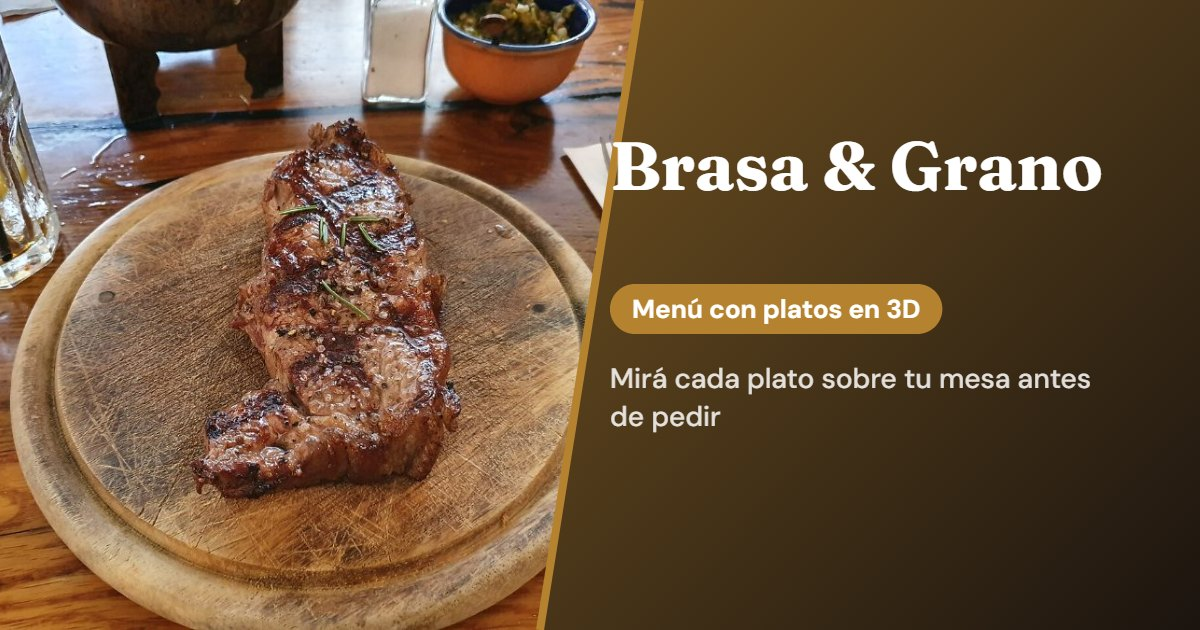
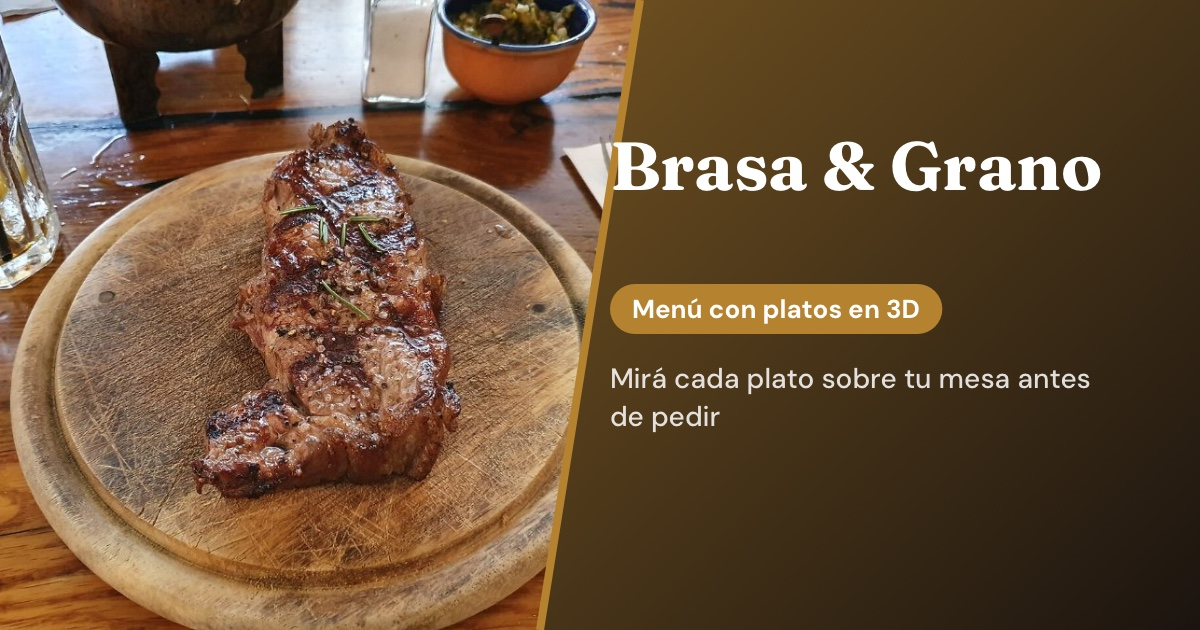
Actualiza el menú de Brasa & Grano

diff --git a/brasa-y-grano/index.html b/brasa-y-grano/index.html
@@ -3,14 +3,14 @@
 <head>
 <meta charset="utf-8">
 <meta name="viewport" content="width=device-width, initial-scale=1, viewport-fit=cover">
-<!-- Datos para cuando se comparte el link (WhatsApp, etc.). El menú en sí está en menu.json -->
+<!-- Datos para cuando se comparte el link (WhatsApp, etc.). El menú en sí está en menu.json. Esta página se genera al publicar -->
 <title>Brasa &amp; Grano · Menú 3D</title>
 <meta name="description" content="Menú digital con platos en 3D. Escaneá el QR o acercá el celular al NFC y mirá cada plato sobre tu mesa.">
-<meta property="og:title" content="Brasa &amp; Grano · Menú 3D">
-<meta property="og:description" content="Mirá cada plato en 3D sobre tu mesa antes de elegir.">
 <meta property="og:type" content="website">
 <meta property="og:url" content="https://bianchiaura.github.io/menu-3d-publico/brasa-y-grano/">
-<meta property="og:image" content="https://bianchiaura.github.io/menu-3d-publico/brasa-y-grano/compartir.jpg?v=1793804474">
+<meta property="og:title" content="Brasa &amp; Grano · Menú 3D">
+<meta property="og:description" content="Mirá cada plato en 3D sobre tu mesa antes de elegir.">
+<meta property="og:image" content="https://bianchiaura.github.io/menu-3d-publico/brasa-y-grano/compartir.jpg?v=mw30c0iq">
 <meta property="og:image:width" content="1200">
 <meta property="og:image:height" content="630">
 <meta name="twitter:card" content="summary_large_image">
